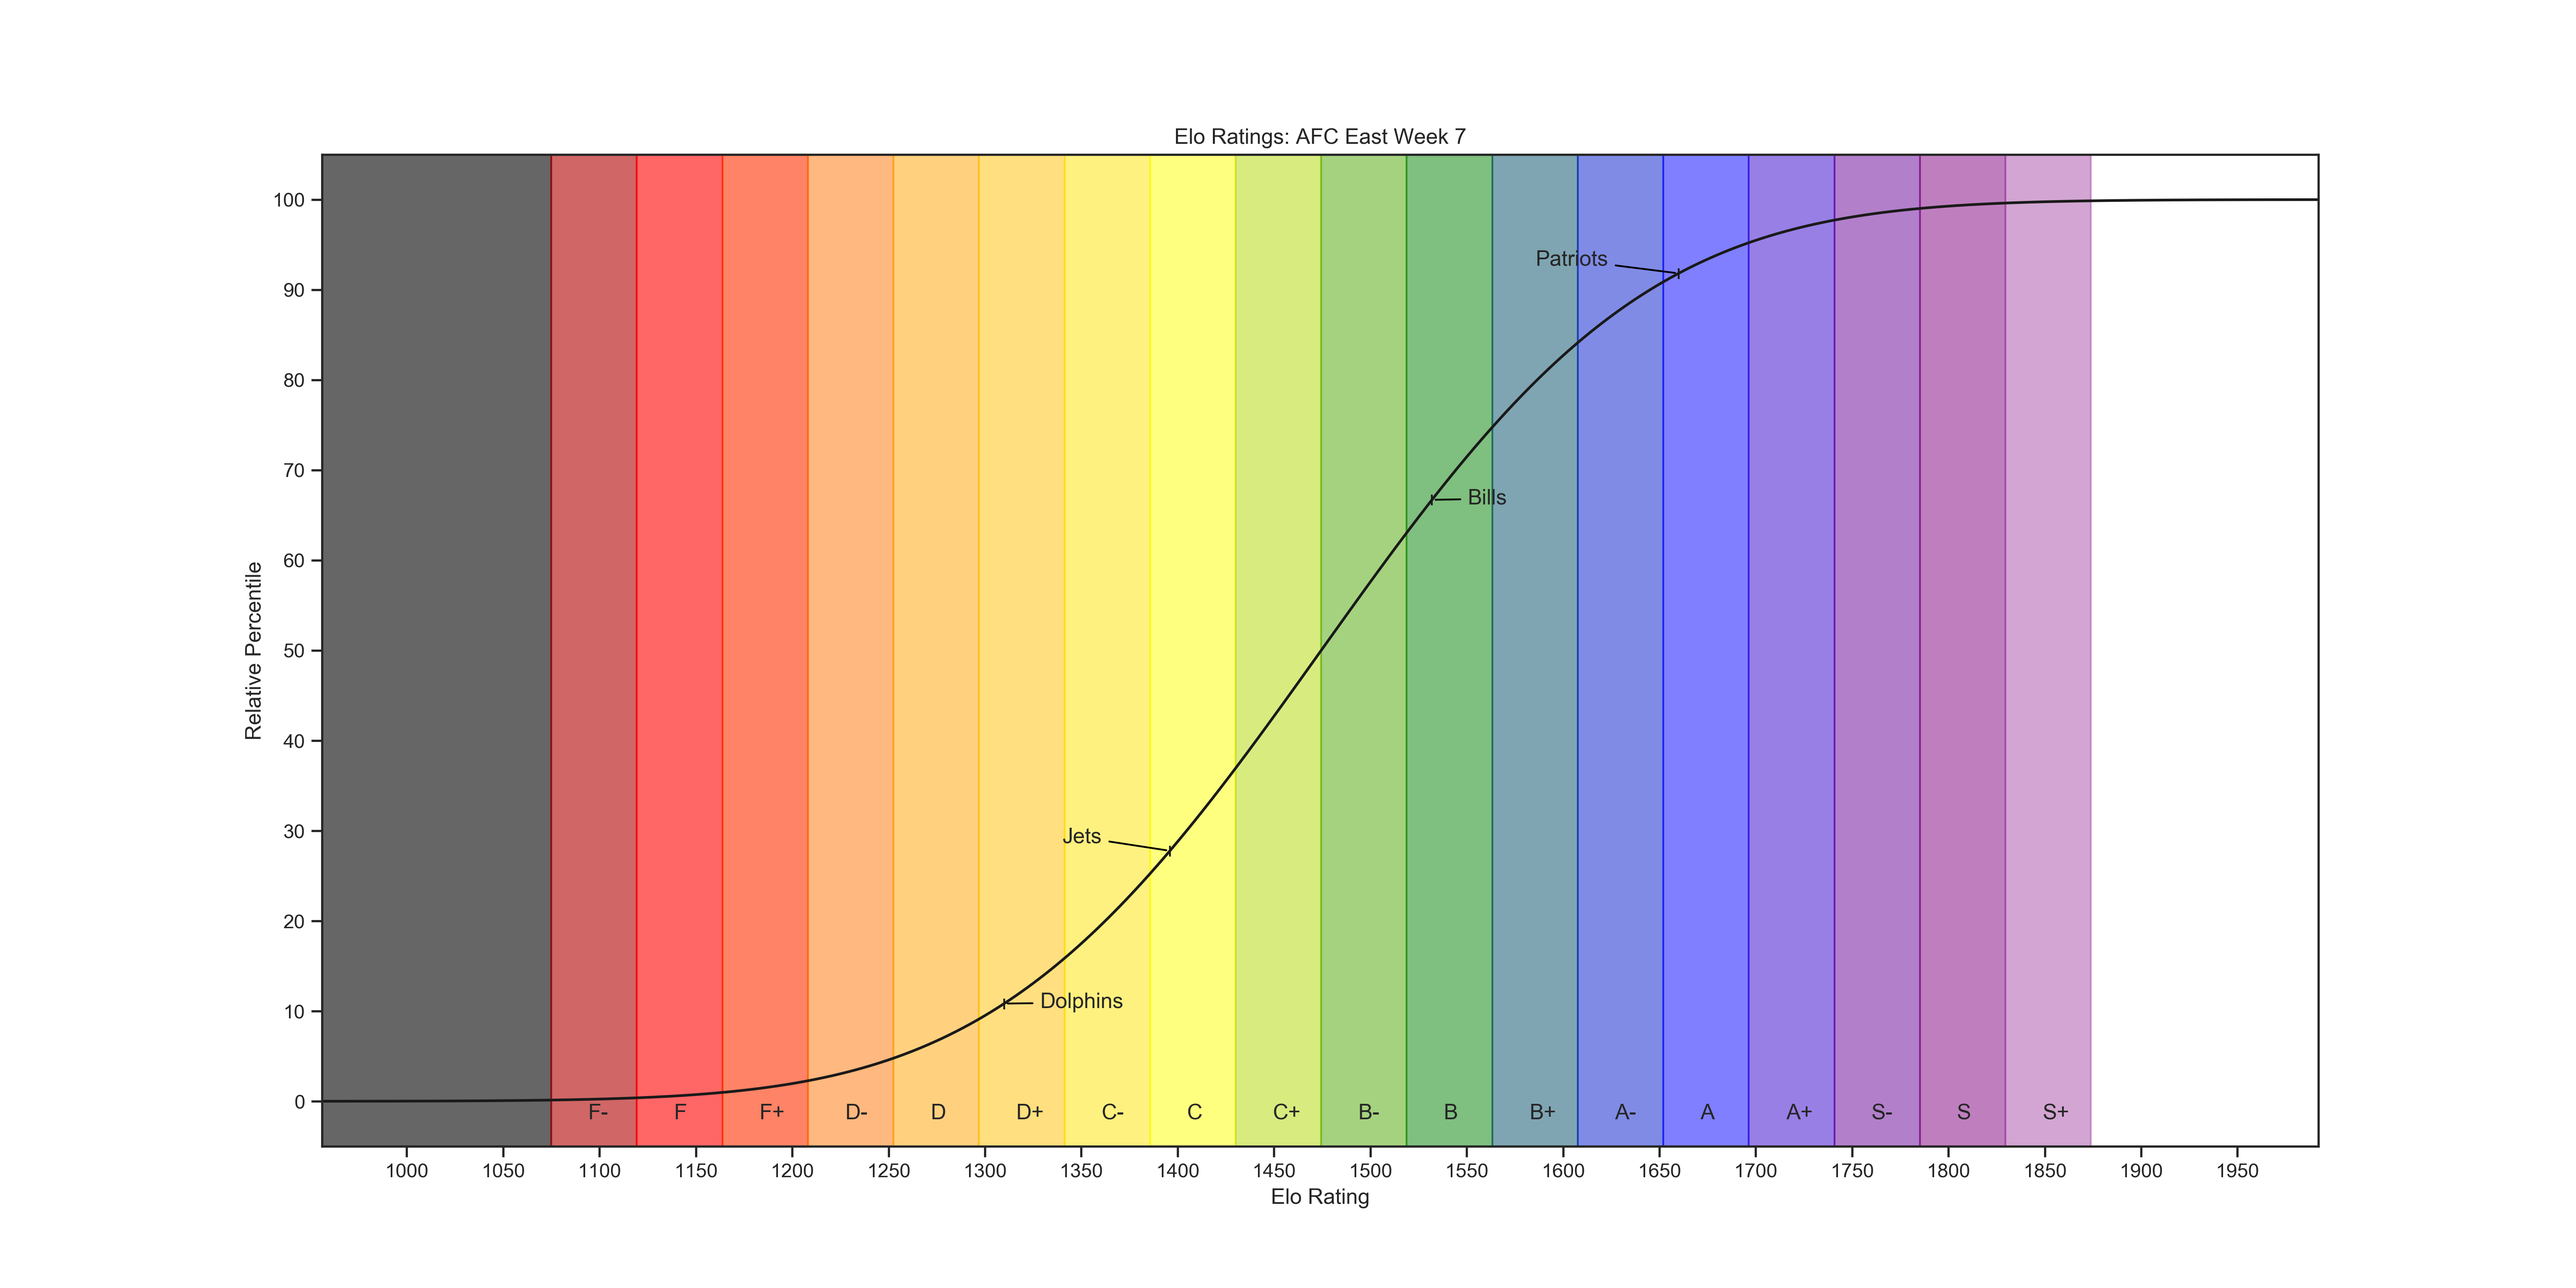
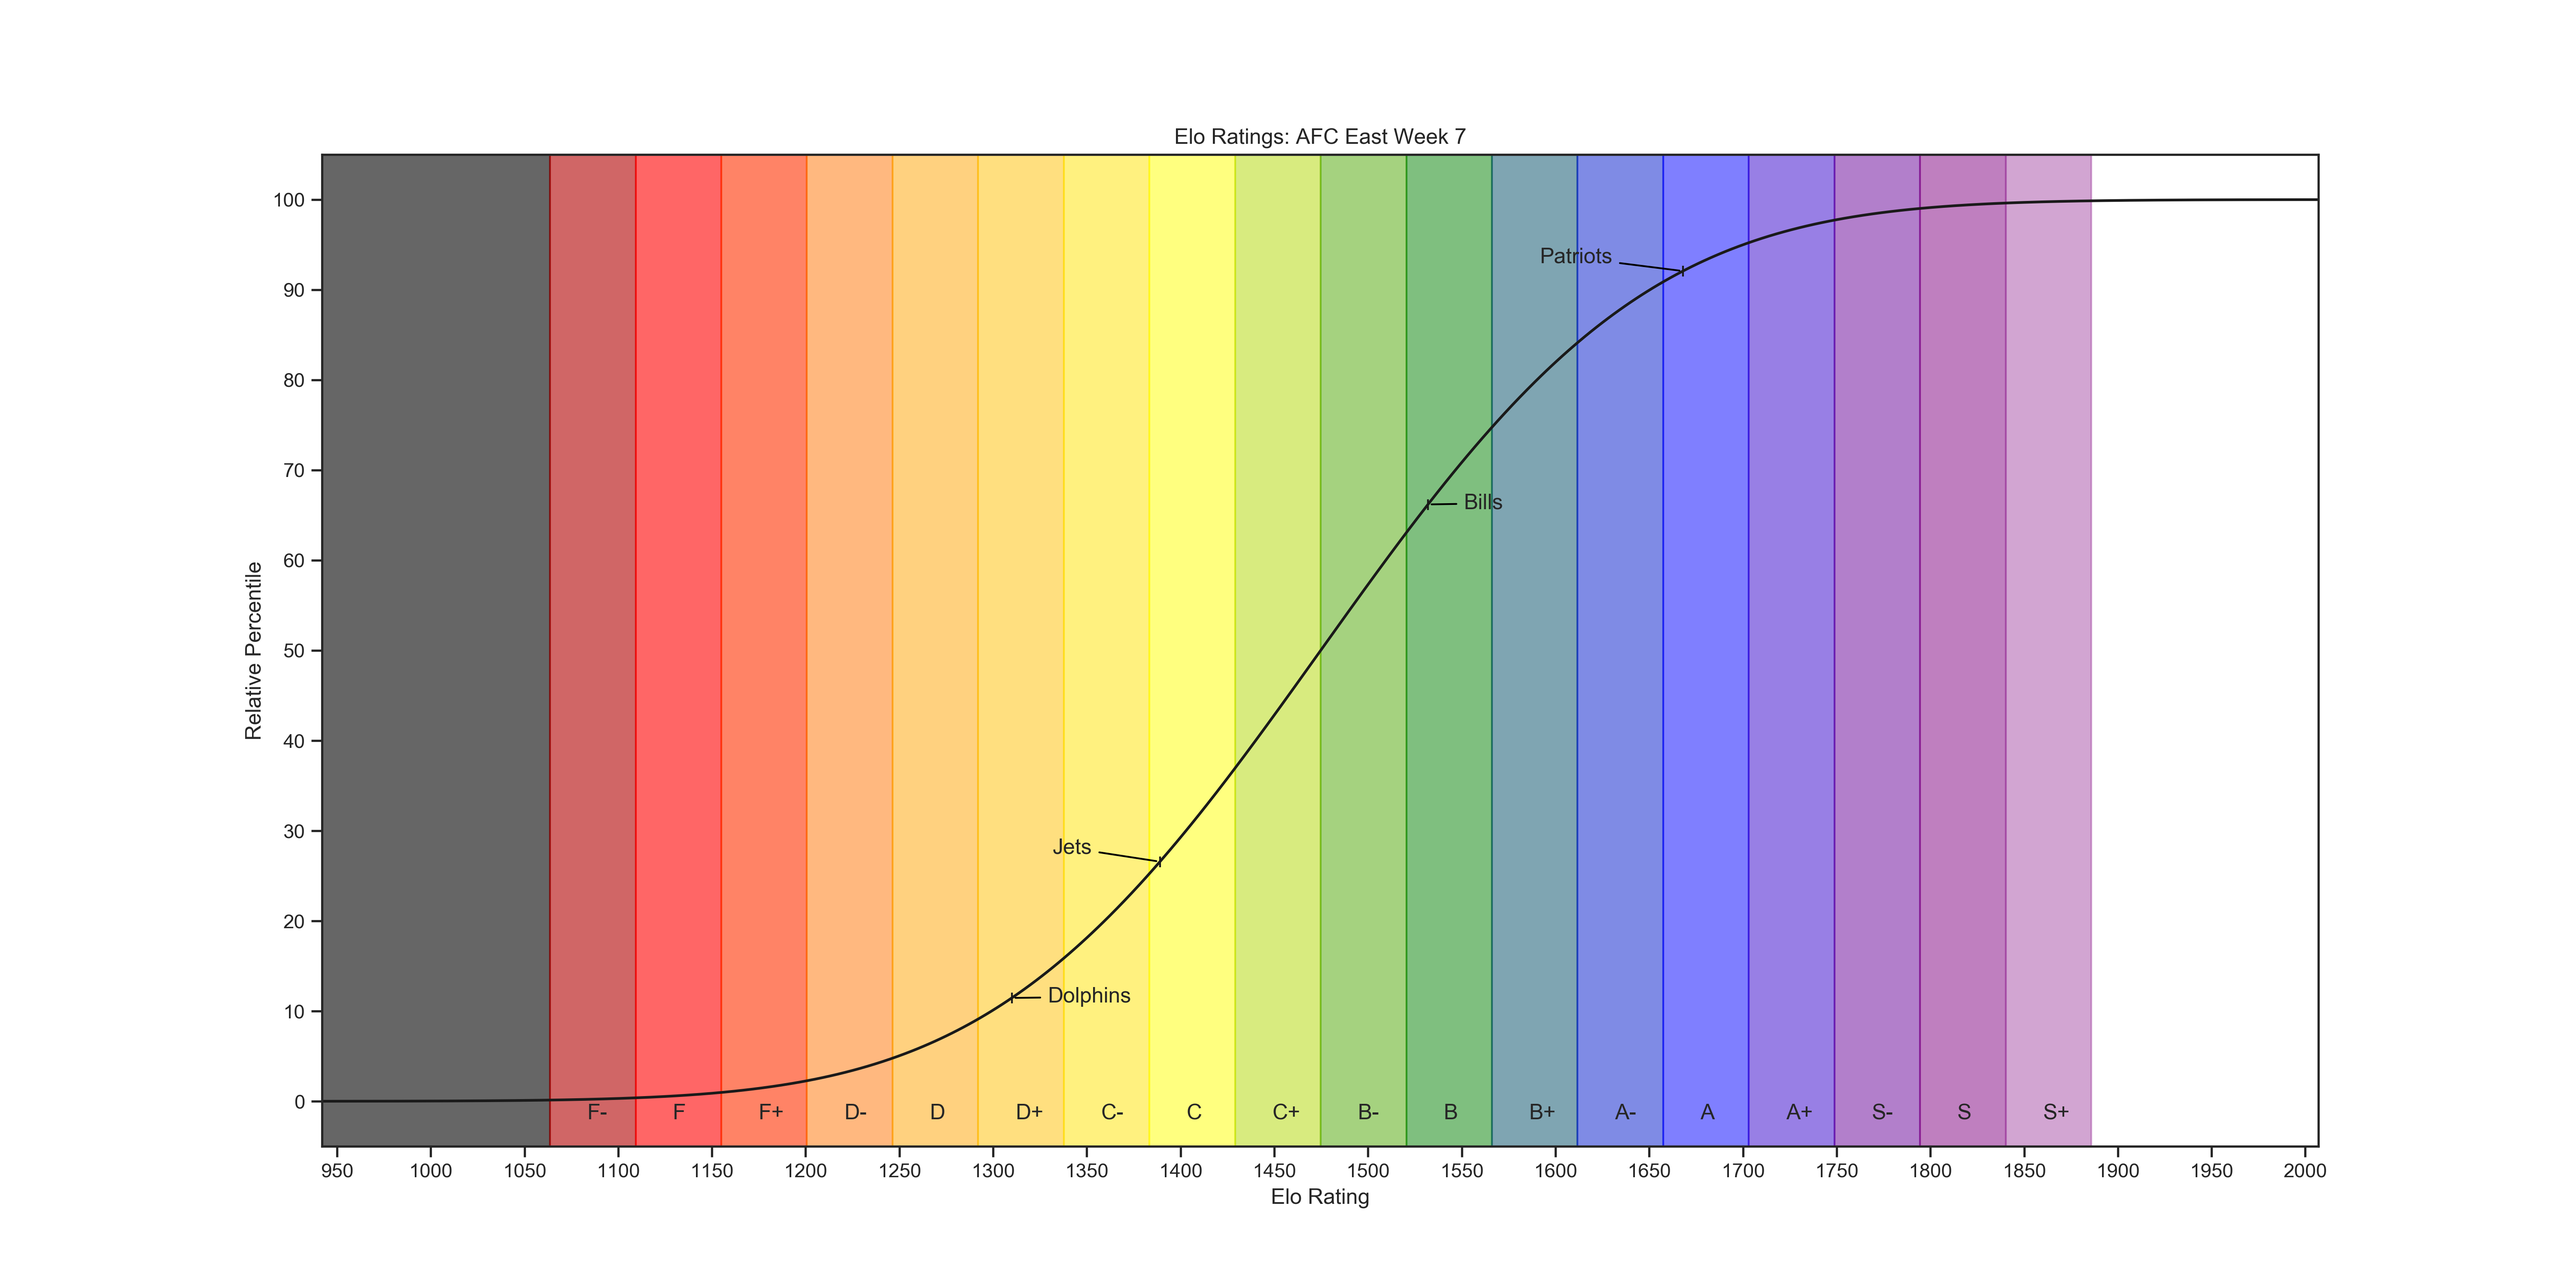
Completed week 7

diff --git a/NFLSeason2019.py b/NFLSeason2019.py
@@ -788,13 +788,13 @@ def week_7(teams, week_end_date, week=7):
                              'Seahawks', 16, 1, 241, 20, 41, 1, 1, 347,
                              'Ravens', 30, 1, 141, 9, 20, 0, 0, 340)
 
-    # teams = set_game_outcome(teams, week, 0,
-    #                          'Cowboys', 0, 0, 0, 0, 0, 0, 0, 0,
-    #                          'Eagles', 0, 0, 0, 0, 0, 0, 0, 0)
-    #
-    # teams = set_game_outcome(teams, week, 0,
-    #                          'Jets', 0, 0, 0, 0, 0, 0, 0, 0,
-    #                          'Patriots', 0, 0, 0, 0, 0, 0, 0, 0)
+    teams = set_game_outcome(teams, week, -3,
+                             'Cowboys', 37, 4, 213, 21, 27, 1, 1, 402,
+                             'Eagles', 10, 1, 168, 16, 26, 1, 1, 283)
+
+    teams = set_game_outcome(teams, week, 9.5,
+                             'Jets', 0, 0, 73, 11, 32, 0, 4, 154,
+                             'Patriots', 33, 4, 249, 31, 45, 1, 1, 323)
 
     return teams
 
